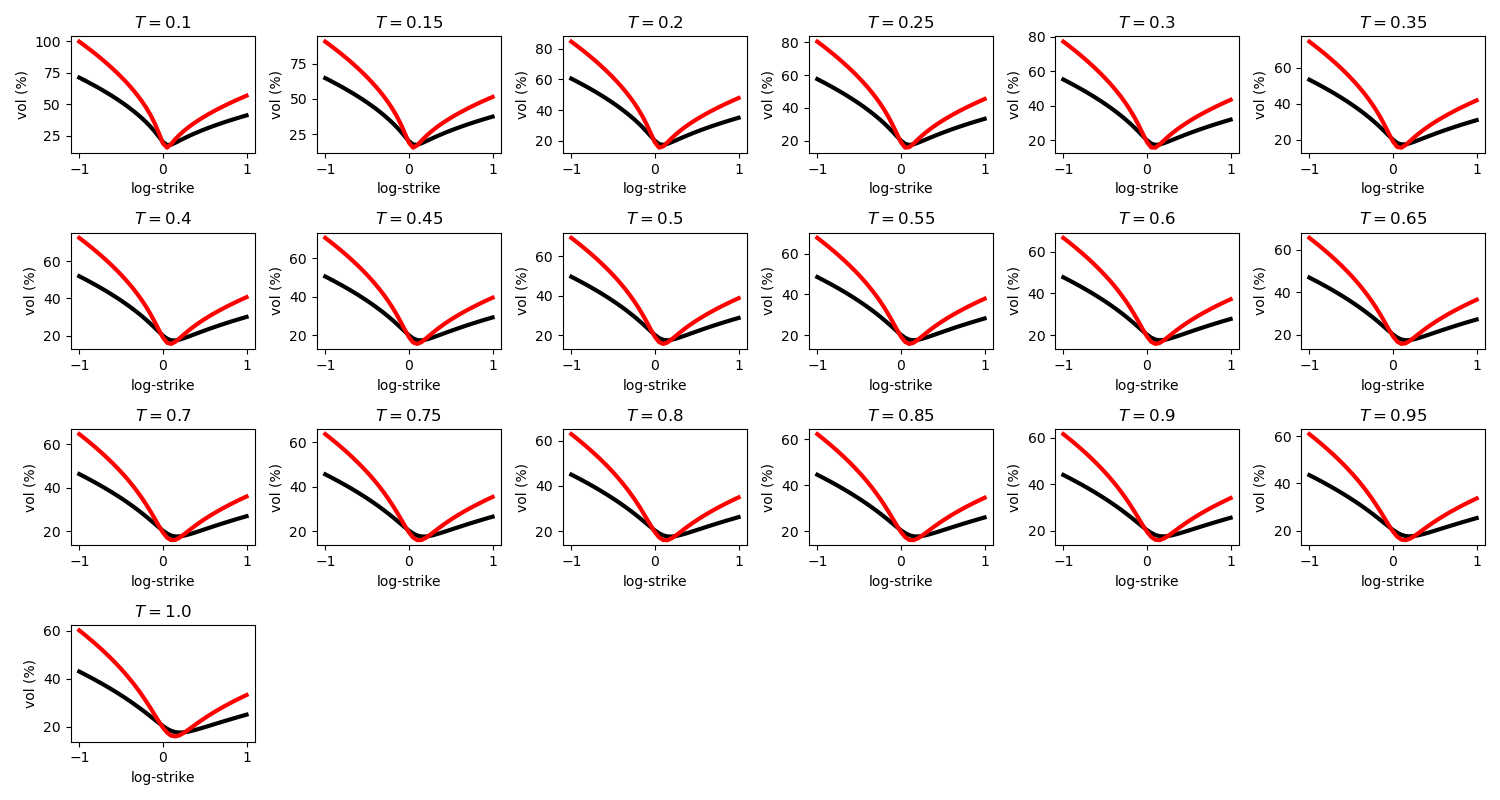
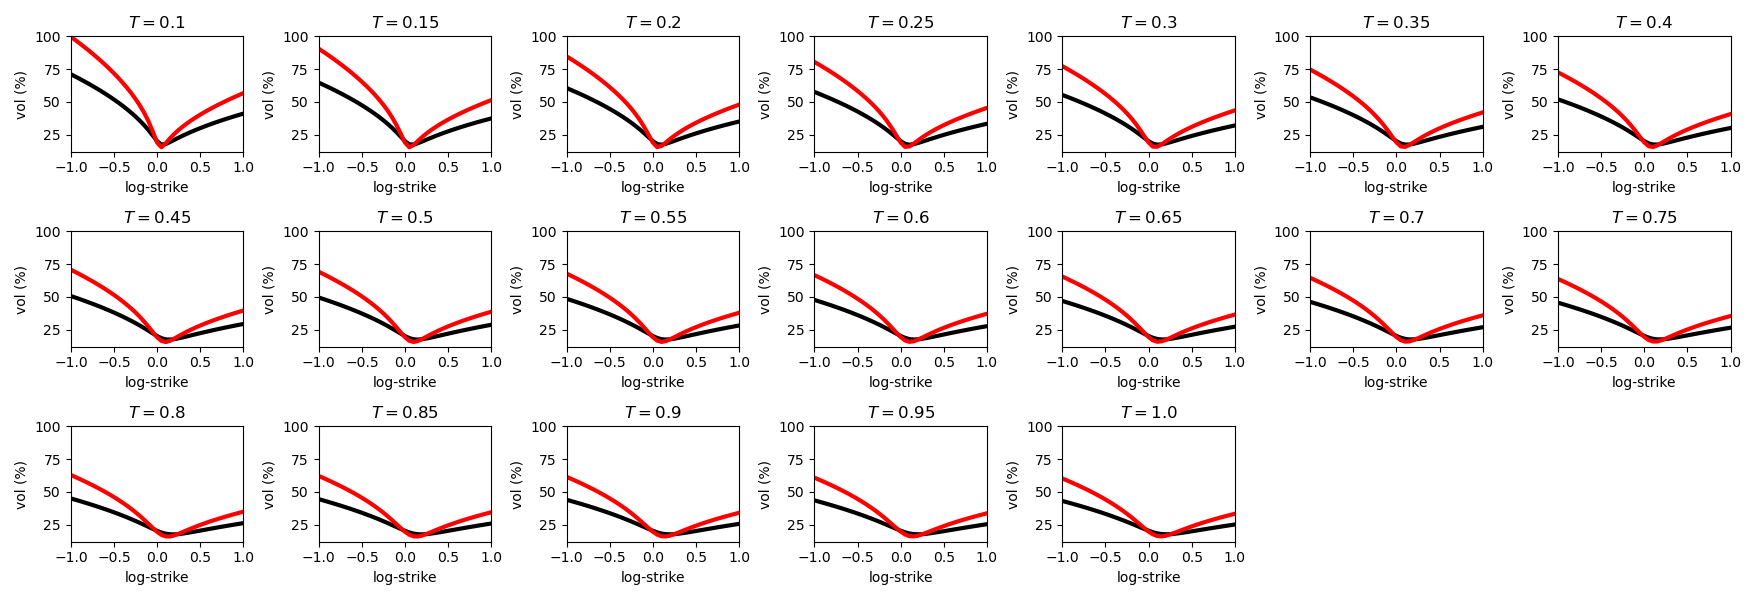
am implied vol calc

diff --git a/research/american-option/american.py b/research/american-option/american.py
@@ -4,21 +4,60 @@ import pandas as pd
 import matplotlib.pyplot as plt
 from tqdm import tqdm
 from numba import njit
+from copy import copy
 from scipy.sparse import diags
 from scipy.sparse.linalg import splu, spsolve
 from scipy.interpolate import interp1d
 plt.switch_backend('Agg')
 
 #### Note ######################################################################
-# - Attributes in all classes are freely accessible, i.e. no encapsulation (getter/setter)
+# 1. Attributes in all classes are freely accessible, i.e. no encapsulation (getter/setter)
+
+#### Consts ####################################################################
+
+MIN_TTX  = 1e-4         # minimum time-to-expiry to avoid blow-up in SviPowerLaw
+MAX_LVAR = 10           # maximum local-var to avoid blow-up in SolveLattice
 
 #### Vol Surface ###############################################################
 
-MIN_TTX  = 1e-4
-MAX_LVAR = 10
+class VolSurface:
+    def __init__(self):
+        self.IVolFunc = self.ImpliedVolFunc() # implied-vol function
+        self.LVolFunc = self.LocalVolFunc()   # local-vol function
+        self.LVarFunc = self.LocalVarFunc()   # local-var function
 
-class SviPowerLaw:
+    def __repr__(self):
+        return f'VolSurface()'
+
+    def ImpliedVolFunc(self):
+        return (lambda k,T: np.zeros(k.shape) if isinstance(k,np.ndarray) else 0)
+
+    def LocalVolFunc(self):
+        return (lambda k,T: np.zeros(k.shape) if isinstance(k,np.ndarray) else 0)
+
+    def LocalVarFunc(self):
+        return (lambda k,T: np.zeros(k.shape) if isinstance(k,np.ndarray) else 0)
+
+class FlatVol(VolSurface):
+    def __init__(self, sig):
+        VolSurface.__init__(self)
+        self.sig = sig
+
+    def __repr__(self):
+        return f'FlatVol(sig={self.sig})'
+
+    def ImpliedVolFunc(self):
+        return (lambda k,T: np.full(k.shape,self.sig) if isinstance(k,np.ndarray) else self.sig)
+
+    def LocalVolFunc(self):
+        return (lambda k,T: np.full(k.shape,self.sig) if isinstance(k,np.ndarray) else self.sig)
+
+    def LocalVarFunc(self):
+        return (lambda k,T: np.full(k.shape,self.sig) if isinstance(k,np.ndarray) else self.sig)
+
+class SviPowerLaw(VolSurface):
     def __init__(self, v0, v1, v2, k1, k2, rho, eta, gam):
+        VolSurface.__init__(self)
         self.v0  = v0  # base variance
         self.v1  = v1  # short-term variance
         self.v2  = v2  # long-term variance
@@ -27,9 +66,9 @@ class SviPowerLaw:
         self.rho = rho # smile asymmetry
         self.eta = eta # skew magnitude
         self.gam = gam # skew decay
-        self.IVolFunc = self.ImpliedVolFunc() # implied-vol function
-        self.LVolFunc = self.LocalVolFunc()   # local-vol function
-        self.LVarFunc = self.LocalVarFunc()   # local-var function
+
+    def __repr__(self):
+        return f'SviPowerLaw(v0={self.v0}, v1={self.v1}, v2={self.v2}, k1={self.k1}, k2={self.k2}, rho={self.rho}, eta={self.eta}, gam={self.gam})'
 
     def HestonTermStructureKernel(self):
         def w0(T):
@@ -37,6 +76,7 @@ class SviPowerLaw:
         return w0
 
     def HestonTermStructureKernelTimeDeriv(self):
+        # Term-structure kernel derivative wrt. T
         def dw0dT(T):
             return self.v0+(self.v1-self.v0)*np.exp(-self.k1*T)+(self.v2-self.v0)*self.k1/(self.k1-self.k2)*(np.exp(-self.k2*T)-np.exp(-self.k1*T))
         return dw0dT
@@ -47,11 +87,13 @@ class SviPowerLaw:
         return sk0
 
     def PowerLawSkewKernelVarDeriv(self):
+        # Skew kernel derivative wrt. w
         def dsk0dw(w):
             return -self.eta*self.gam/w**(self.gam+1)
         return dsk0dw
 
     def TotalImpliedVarFunc(self):
+        # SviPowerLaw surface parametrization
         w0  = self.HestonTermStructureKernel()
         sk0 = self.PowerLawSkewKernel()
         def sviIVarFunc(k, T):
@@ -62,6 +104,7 @@ class SviPowerLaw:
         return sviIVarFunc
 
     def LocalVarFunc(self):
+        # SviPowerLaw analytic local-var
         w0     = self.HestonTermStructureKernel()
         sk0    = self.PowerLawSkewKernel()
         dw0dT  = self.HestonTermStructureKernelTimeDeriv()
@@ -108,26 +151,31 @@ class Option:
         self.pxGridEu = None # price-grid under local-vol
         self.pxGridAm = None # price-grid under flat local-vol
         self.gridX    = None # space-grid in log-spot
+        self.gridS    = None # space-grid in spot
         self.gridT    = None # time-grid in time-to-expiry
+
+    def __repr__(self):
+        return f'Option(K={self.K}, T={self.T}, pc={self.pc}, ex={self.ex}, ivEu={self.ivEu}, ivAm={self.ivAm}, lvEu={self.lvEu})'
 
     def Payoff(self, S):
         return np.maximum((self.K-S) if self.pc=='P' else (S-self.K),0)
 
 class Spot:
-    def __init__(self, S0, r, q, impVolFunc, locVolFunc, locVarFunc, div=None):
-        self.S0 = S0 # initial spot
-        self.r  = r  # risk-free rate
-        self.q  = q  # dividend yield
-        self.IVolFunc = impVolFunc # implied-vol function
-        self.LVolFunc = locVolFunc # local-vol function
-        self.LVarFunc = locVarFunc # local-var function
+    def __init__(self, S0, r, q, vs, div=None):
+        self.S0  = S0  # initial spot
+        self.r   = r   # risk-free rate
+        self.q   = q   # dividend yield
+        self.vs  = vs  # vol surface
         self.div = div # TODO: discrete dividend, use pd.Series? relative/absolute?
+
+    def __repr__(self):
+        return f'Spot(S0={self.S0}, r={self.r}, q={self.q}, div={self.div}, vs={self.vs})'
 
     def ForwardFunc(self, T):
         return np.exp((self.r-self.q)*T)
 
 class LatticeConfig:
-    def __init__(self, S0, nX, nT, rangeX, rangeT, centerValue, center='strike', scheme='implicit', boundary='value', interpBdry=False):
+    def __init__(self, S0, nX, nT, rangeX, rangeT, centerValue, center='strike', scheme='implicit', invMethod='splu', boundary='value', interpBdry=False):
         self.S0          = S0          # initial spot
         self.nX          = nX          # number of space-grids
         self.nT          = nT          # number of time-grids
@@ -136,6 +184,7 @@ class LatticeConfig:
         self.centerValue = centerValue # grid-center in spot (S0 or K)
         self.center      = center      # grid-center (spot or strike)
         self.scheme      = scheme      # PDE solver scheme (explicit, implicit or crank-nicolson)
+        self.invMethod   = invMethod   # sparse matrix inversion method
         self.boundary    = boundary    # PDE grid boundary method (value or gamma)
         self.interpBdry  = interpBdry  # TODO: interp early ex-boundary
         self.SetRangeS()
@@ -144,6 +193,9 @@ class LatticeConfig:
         self.dT = (rangeT[1]-rangeT[0])/nT # time-grid size
         self.gridX = np.linspace(rangeX[0],rangeX[1],nX+1) # space-grid in log-spot
         self.gridT = np.linspace(rangeT[0],rangeT[1],nT+1) # time-grid in time-to-expiry
+
+    def __repr__(self):
+        return f'LatticeConfig(S0={self.S0}, nX={self.nX}, nT={self.nT}, rangeX={self.rangeX}, rangeT={self.rangeT}, centerValue={self.centerValue}, center={self.center}, scheme={self.scheme}, invMethod={self.invMethod}, boundary={self.boundary}, interpBdry={self.interpBdry})'
 
     def XToS(self, X):
         return self.centerValue*np.exp(X)
@@ -161,14 +213,20 @@ class LatticeConfig:
 
 class LatticePricer:
     def __init__(self, spot):
-        self.spot = spot
+        self.spot   = spot # true spot
+        self.spotAm = None # auxiliary spot used in de-Americanization
 
-    def SolveLattice(self, option, config):
+    def __repr__(self):
+        return f'LatticePricer(spot={self.spot})'
+
+    def SolveLattice(self, option, config, isImpliedVolCalc=False):
+        # Solve PDE lattice for option price
+        spot = self.spotAm if isImpliedVolCalc else self.spot
         K  = option.K
         T  = option.T
-        r  = self.spot.r
-        q  = self.spot.q
-        S0 = self.spot.S0
+        r  = spot.r
+        q  = spot.q
+        S0 = spot.S0
         x  = config.gridX
         t  = config.gridT
         dx = config.dX
@@ -176,7 +234,7 @@ class LatticePricer:
         S  = config.XToS(x)
         x0 = config.SToX(S0)
         xx,tt  = np.meshgrid(x,t)
-        varL   = self.spot.LVarFunc(xx,np.maximum(T-tt,MIN_TTX))
+        varL   = spot.vs.LVarFunc(xx,np.maximum(T-tt,MIN_TTX))
         varL   = np.minimum(varL,MAX_LVAR)
         pxGrid = np.zeros((len(t),len(x)))
         pxGrid[0] = option.Payoff(S)
@@ -188,8 +246,8 @@ class LatticePricer:
             else:
                 pxGrid[:,0]  = 0
                 pxGrid[:,-1] = S[-1]*np.exp(-q*t)-K*np.exp(-r*t)
-            V0 = np.zeros(len(x)-2)
-            for i in range(len(t)-1):
+            V0 = np.zeros(len(x)-2) # offset in implicit scheme
+            for i in range(len(t)-1): # forward in time-to-expiry
                 if config.scheme == 'explicit':
                     v = varL[i,1:-1]
                     a = -(r-q-v/2)*dt/(2*dx)+v*dt/(2*dx**2)
@@ -207,8 +265,10 @@ class LatticePricer:
                     D = diags([a[1:],b,c[:-1]],[-1,0,1]).tocsc()
                     V0[0]  = a[0]*pxGrid[i+1,0]
                     V0[-1] = c[-1]*pxGrid[i+1,-1]
-                    pxGrid[i+1,1:-1] = splu(D).solve(pxGrid[i,1:-1]-V0)
-                    # pxGrid[i+1,1:-1] = spsolve(D,pxGrid[i,1:-1]-V0)
+                    if config.invMethod == 'splu':
+                        pxGrid[i+1,1:-1] = splu(D).solve(pxGrid[i,1:-1]-V0)
+                    else:
+                        pxGrid[i+1,1:-1] = spsolve(D,pxGrid[i,1:-1]-V0)
                 elif config.scheme == 'crank-nicolson':
                     # TODO: Crank-Nicolson scheme
                     pass
@@ -227,20 +287,37 @@ class LatticePricer:
             pass
         pxFunc = interp1d(x,pxGrid[-1],kind='cubic')
         px     = pxFunc(x0)
-        pxGrid = pd.DataFrame(pxGrid,index=t,columns=x)
-        exBdry = pd.Series(exBdry,index=t)
-        option.px       = px
-        option.pxFunc   = pxFunc
-        option.ivEu     = self.spot.IVolFunc(x0,T)
-        option.lvEu     = self.spot.LVolFunc(x0,T)
-        option.exBdryEu = exBdry
-        option.pxGridEu = pxGrid
-        option.gridX    = x
-        option.gridT    = t
+        if isImpliedVolCalc:
+            option.ivAm     = spot.vs.IVolFunc(x0,T)
+            option.exBdryAm = exBdry
+            option.pxGridAm = pxGrid
+        else:
+            pxGrid = pd.DataFrame(pxGrid,index=t,columns=x)
+            exBdry = pd.Series(exBdry,index=t)
+            option.px       = px
+            option.pxFunc   = pxFunc
+            option.ivEu     = spot.vs.IVolFunc(x0,T)
+            option.lvEu     = spot.vs.LVolFunc(x0,T)
+            option.exBdryEu = exBdry
+            option.pxGridEu = pxGrid
+            option.gridX    = x
+            option.gridS    = S
+            option.gridT    = t
         return px
 
     def DeAmericanize(self, option, config):
-        pass
+        # TODO: De-Americanize option by flat local-vol assumption
+        K  = option.K
+        T  = option.T
+        S0 = self.spot.S0
+        x0 = config.SToX(S0)
+        px = option.px
+        sig0 = self.spot.vs.IVolFunc(x0,T)
+        self.spotAm = copy(self.spot)
+        def loss(sig):
+            self.spotAm.vs = FlatVol(sig)
+            return self.SolveLattice(option,config,True)-px
+        print(loss(sig0))
 
 #### Helper Functions ##########################################################
 
@@ -251,9 +328,10 @@ def VolSurfaceMatrixToDataFrame(m, k, T, idx_name='Expiry', col_name='Log-strike
     df.columns.name = col_name
     return df
 
-def PlotImpliedVol(df, dfLVol=None, figname=None, ncol=6, scatterFit=False, atmBar=False, xlim=None, ylim=None):
+def PlotImpliedVol(df, dfLVol=None, figname=None, title=None, ncol=7, scatter=False, atmBar=False, xlim=None, ylim=None):
     # Plot implied volatilities based on df
     # df: Columns -- Log-strike, Index -- Expiry
+    # TODO: add legend -- implied/local vol
     if not figname:
         figname = 'impliedvol.png'
     Texp = df.index
@@ -277,7 +355,7 @@ def PlotImpliedVol(df, dfLVol=None, figname=None, ncol=6, scatterFit=False, atmB
             ax_idx.set_title(rf'$T={np.round(T,3)}$')
             ax_idx.set_xlabel('log-strike')
             ax_idx.set_ylabel('vol (%)')
-            if scatterFit:
+            if scatter:
                 ax_idx.scatter(k,vol,c='k',s=5,label='implied')
                 if dfLVol is not None:
                     volL = 100*dfLVol.loc[T]
@@ -290,7 +368,7 @@ def PlotImpliedVol(df, dfLVol=None, figname=None, ncol=6, scatterFit=False, atmB
             if atmBar:
                 ax_idx.axvline(x=0,c='grey',ls='--',lw=1)
             if xlim is not None:
-                ax_idx.set_ylim(xlim)
+                ax_idx.set_xlim(xlim)
             if ylim is not None:
                 ax_idx.set_ylim(ylim)
         else:
@@ -299,3 +377,10 @@ def PlotImpliedVol(df, dfLVol=None, figname=None, ncol=6, scatterFit=False, atmB
     fig.tight_layout()
     plt.savefig(figname)
     plt.close()
+
+def PlotPxGrid(df, T, figname=None, title=None, ncol=7, scatter=False, atmBar=False, xlim=None, ylim=None):
+    # TODO: Plot option prices based on df
+    # df: Columns -- Spot, Index -- time-to-expiry
+    if not figname:
+        figname = 'optionpx.png'
+    pass

diff --git a/research/american-option/main.py b/research/american-option/main.py
@@ -1,27 +1,31 @@
 import numpy as np
 import pandas as pd
 import matplotlib.pyplot as plt
+from tqdm import tqdm
 from american import *
 plt.switch_backend('Agg')
 
-# SVI_PARAMS = {'v0': 0.04, 'v1': 0.04, 'v2':0.04, 'k1': 1, 'k2': 2, 'rho': 0, 'eta': 0, 'gam': 1}
-SVI_PARAMS = {'v0': 0.09, 'v1': 0.04, 'v2':0.04, 'k1': 5, 'k2': 0.1, 'rho': -0.5, 'eta': 1, 'gam': 0.5}
+FLAT_VOL        = {'sig': 0.2}
+SVI_PARAMS_FLAT = {'v0': 0.04, 'v1': 0.04, 'v2':0.04, 'k1': 1, 'k2': 2,   'rho': 0,    'eta': 0, 'gam': 0  }
+SVI_PARAMS_SPX  = {'v0': 0.09, 'v1': 0.04, 'v2':0.04, 'k1': 5, 'k2': 0.1, 'rho': -0.5, 'eta': 1, 'gam': 0.5}
 
 def test_SviPowerLaw():
     k = np.arange(-1,1.05,0.05)
     T = np.arange(0.1,1.05,0.05)
     kk,TT = np.meshgrid(k,T)
-    svi = SviPowerLaw(**SVI_PARAMS)
+    svi = SviPowerLaw(**SVI_PARAMS_SPX)
     sigI = svi.IVolFunc(kk,TT)
     sigL = svi.LVolFunc(kk,TT)
     sigI = VolSurfaceMatrixToDataFrame(sigI,k,T)
     sigL = VolSurfaceMatrixToDataFrame(sigL,k,T)
+    print('sigI')
     print(sigI)
+    print('sigL')
     print(sigL)
-    PlotImpliedVol(sigI,sigL,figname='out/impliedvol.png')
+    PlotImpliedVol(sigI,sigL,xlim=(-1,1),ylim=(12,100),figname='out/impliedvol.png')
 
 def test_LatticePricer():
-    svi = SviPowerLaw(**SVI_PARAMS)
+    svi = SviPowerLaw(**SVI_PARAMS_SPX)
     K  = 1
     T  = 1
     S0 = 1
@@ -31,15 +35,37 @@ def test_LatticePricer():
     x0 = -2
     x1 = 2
     O = Option(K,T,'P','A')
-    S = Spot(S0,r,0,svi.IVolFunc,svi.LVolFunc,svi.LVarFunc)
+    S = Spot(S0,r,0,svi)
     C = LatticeConfig(S0,nX,nT,[x0,x1],[0,T],K,scheme='implicit')
     L = LatticePricer(S)
     L.SolveLattice(O,C)
-    print(O.px)
-    print(O.ivEu)
+    print(O)
+    print(S)
+    print(C)
+    print(L)
+    print('O.exBdryEu')
     print(O.exBdryEu)
+    print('O.pxGridEu')
     print(O.pxGridEu)
+
+def test_DeAmericanize():
+    svi = SviPowerLaw(**SVI_PARAMS_SPX)
+    K  = 1
+    T  = 1
+    S0 = 1
+    r  = 0.05
+    nX = 200
+    nT = 200
+    x0 = -2
+    x1 = 2
+    O = Option(K,T,'P','A')
+    S = Spot(S0,r,0,svi)
+    C = LatticeConfig(S0,nX,nT,[x0,x1],[0,T],K,scheme='implicit')
+    L = LatticePricer(S)
+    L.SolveLattice(O,C)
+    L.DeAmericanize(O,C)
 
 if __name__ == '__main__':
     # test_SviPowerLaw()
-    test_LatticePricer()
+    # test_LatticePricer()
+    test_DeAmericanize()
